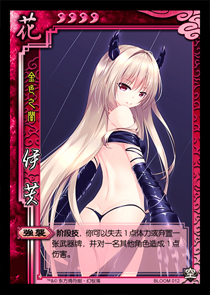
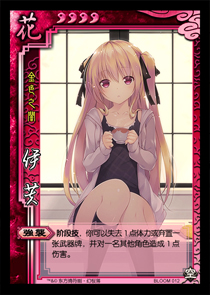
小暗改插画

diff --git a/docs/illustrator.html b/docs/illustrator.html
@@ -1524,7 +1524,7 @@ tr:nth-child(2n+392) {background:rgb(217,243,237);}
   <td>BLOOM012</td>
   <td>伊芙</td>
   <td>syokuyou-mogura</td>
-  <td><a href=http://www.pixiv.net/member_illust.php?mode=medium&illust_id=43039972>http://www.pixiv.net/member_illust.php?mode=medium&amp;illust_id=43039972</a></td>
+  <td><a href=http://www.pixiv.net/member_illust.php?mode=medium&illust_id=43039972>http://www.pixiv.net/member_illust.php?mode=medium&amp;illust_id=62195254</a></td>
   <td></td>
 </tr>
 <tr>
